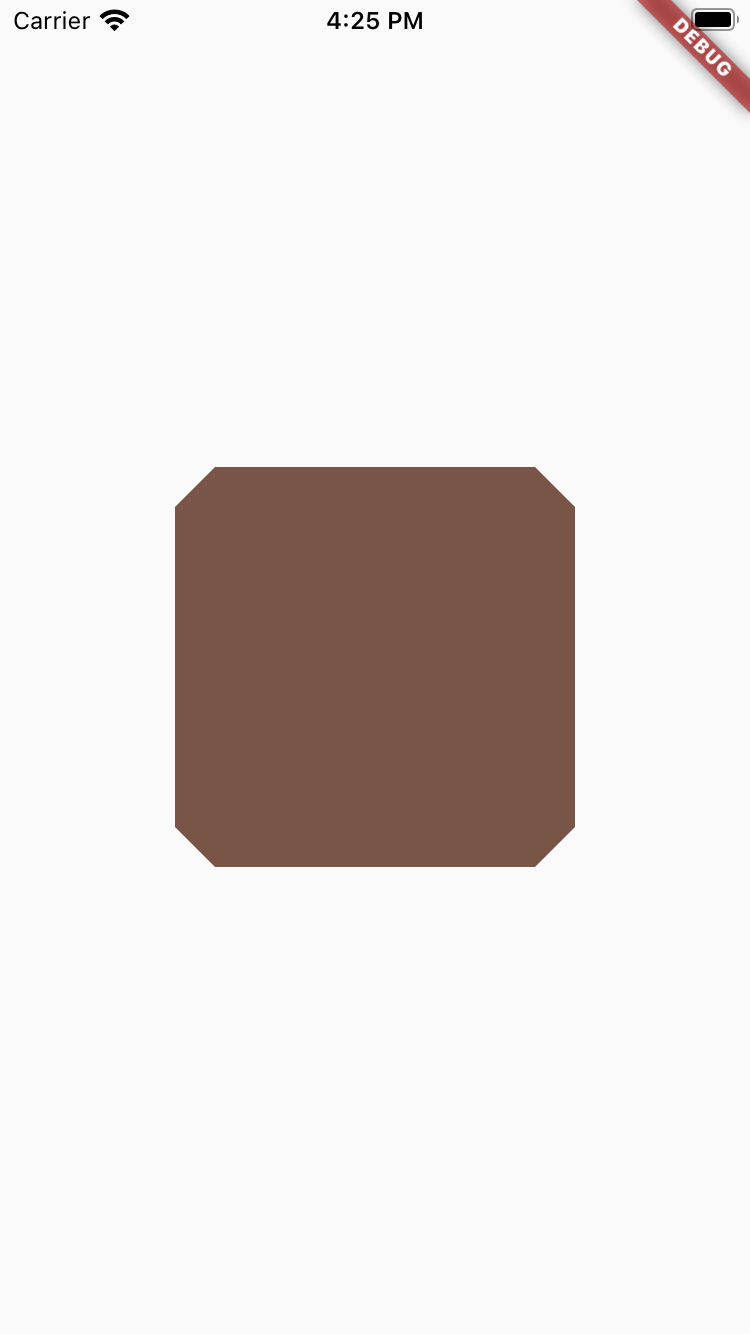
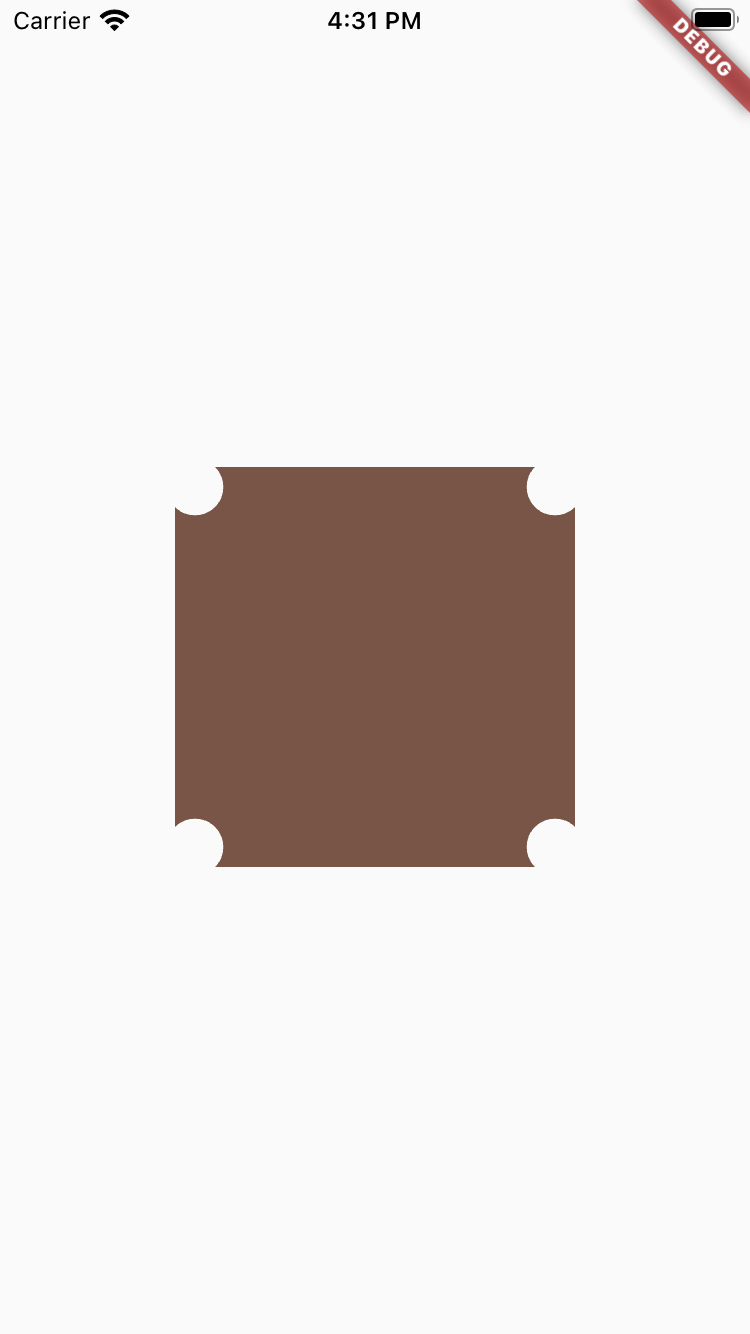
Firstcommit

diff --git a/lib/screens/clipperclass.dart b/lib/screens/clipperclass.dart
@@ -30,12 +30,13 @@ class MyClipper extends CustomClipper<Path>{
    // first minus 20 from width
    path.moveTo(20, 0);
    path.lineTo(size.width-20, 0);
-   path.arcToPoint(Offset(size.width, 20));
+   path.arcToPoint(Offset(size.width, 20), radius: const Radius.circular(5), clockwise: false);
    path.lineTo(size.width, size.height-20);
-   path.arcToPoint(Offset(size.width-20,size.height));
+   path.arcToPoint(Offset(size.width-20,size.height), radius: const Radius.circular(5), clockwise: false);
    path.lineTo(20, size.height);
-   path.arcToPoint(Offset(0,size.height-20));
+   path.arcToPoint(Offset(0,size.height-20,), radius: const Radius.circular(5), clockwise: false);
     path.lineTo(0, 20);
+   path.arcToPoint( Offset(20,0,), radius: const Radius.circular(5), clockwise: false);
 
    
 
